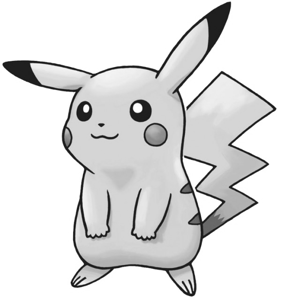
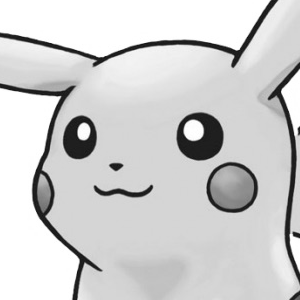
Use PIL, Image and ImageFilter to manipulate images

diff --git a/images.py b/images.py
@@ -4,8 +4,10 @@ img = Image.open('./Pokedex/pikachu.jpg')
 
 # filtered_img = img.filter(ImageFilter.SMOOTH)
 filtered_img = img.convert('L')
+box = (100, 100, 400, 400)
+region = filtered_img.crop(box)
 # crooked = filtered_img.rotate(90)
 resize = filtered_img.resize((300, 300))
-resize.save("grey.png", 'png')
+region.save("grey.png", 'png')
 # filtered_img.show() # opens a Preview window with image
 
